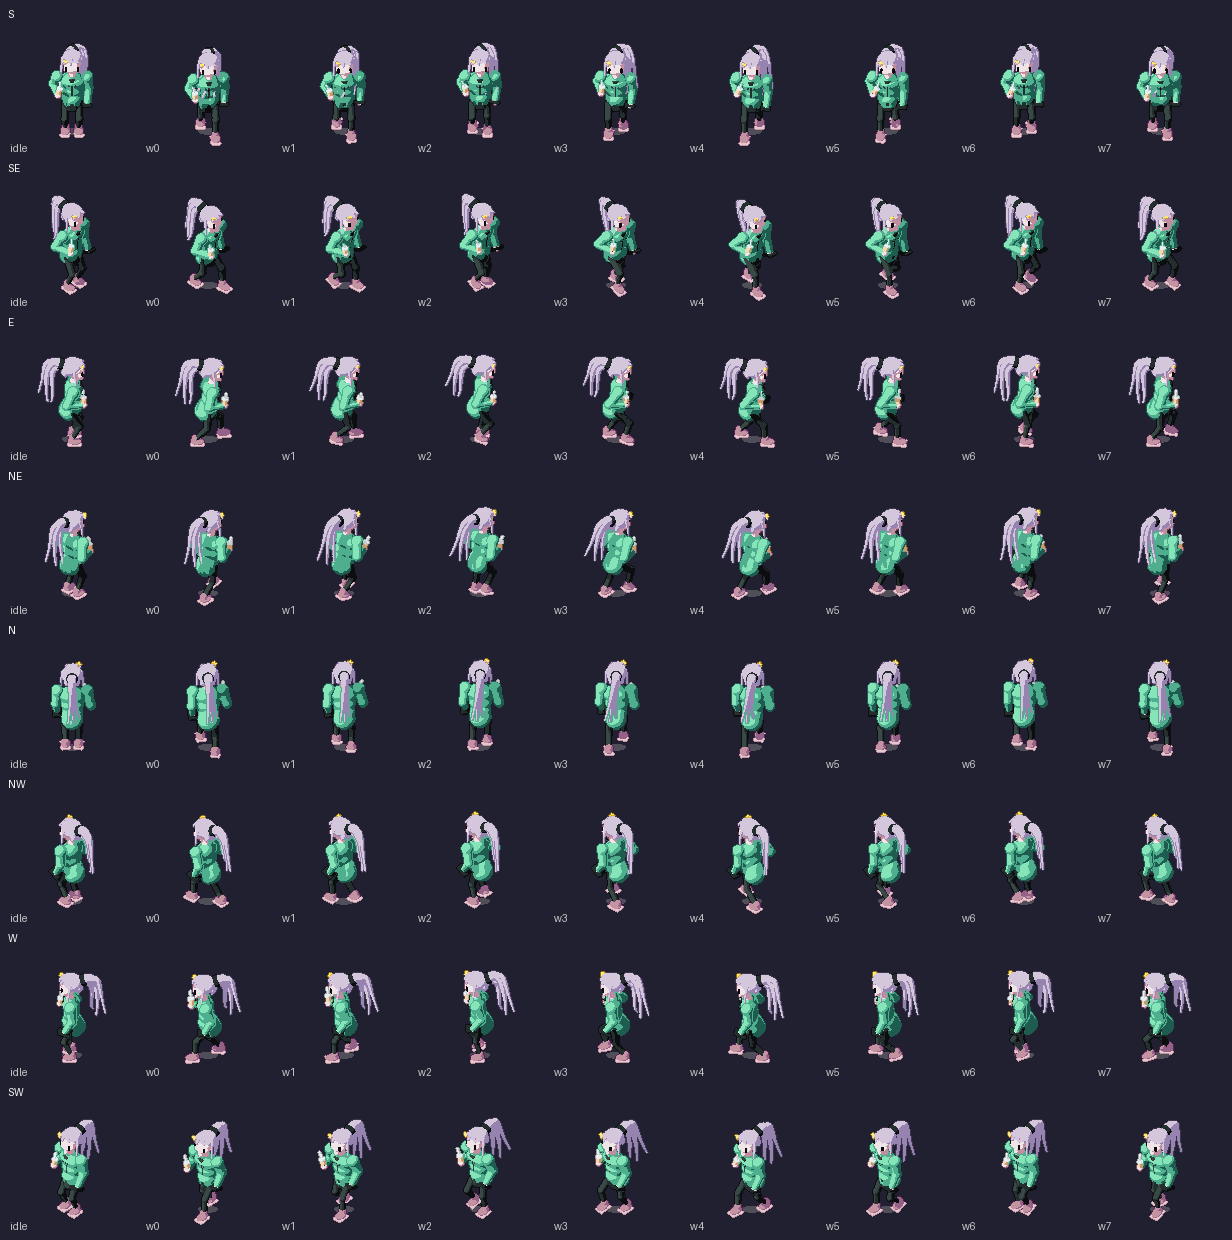
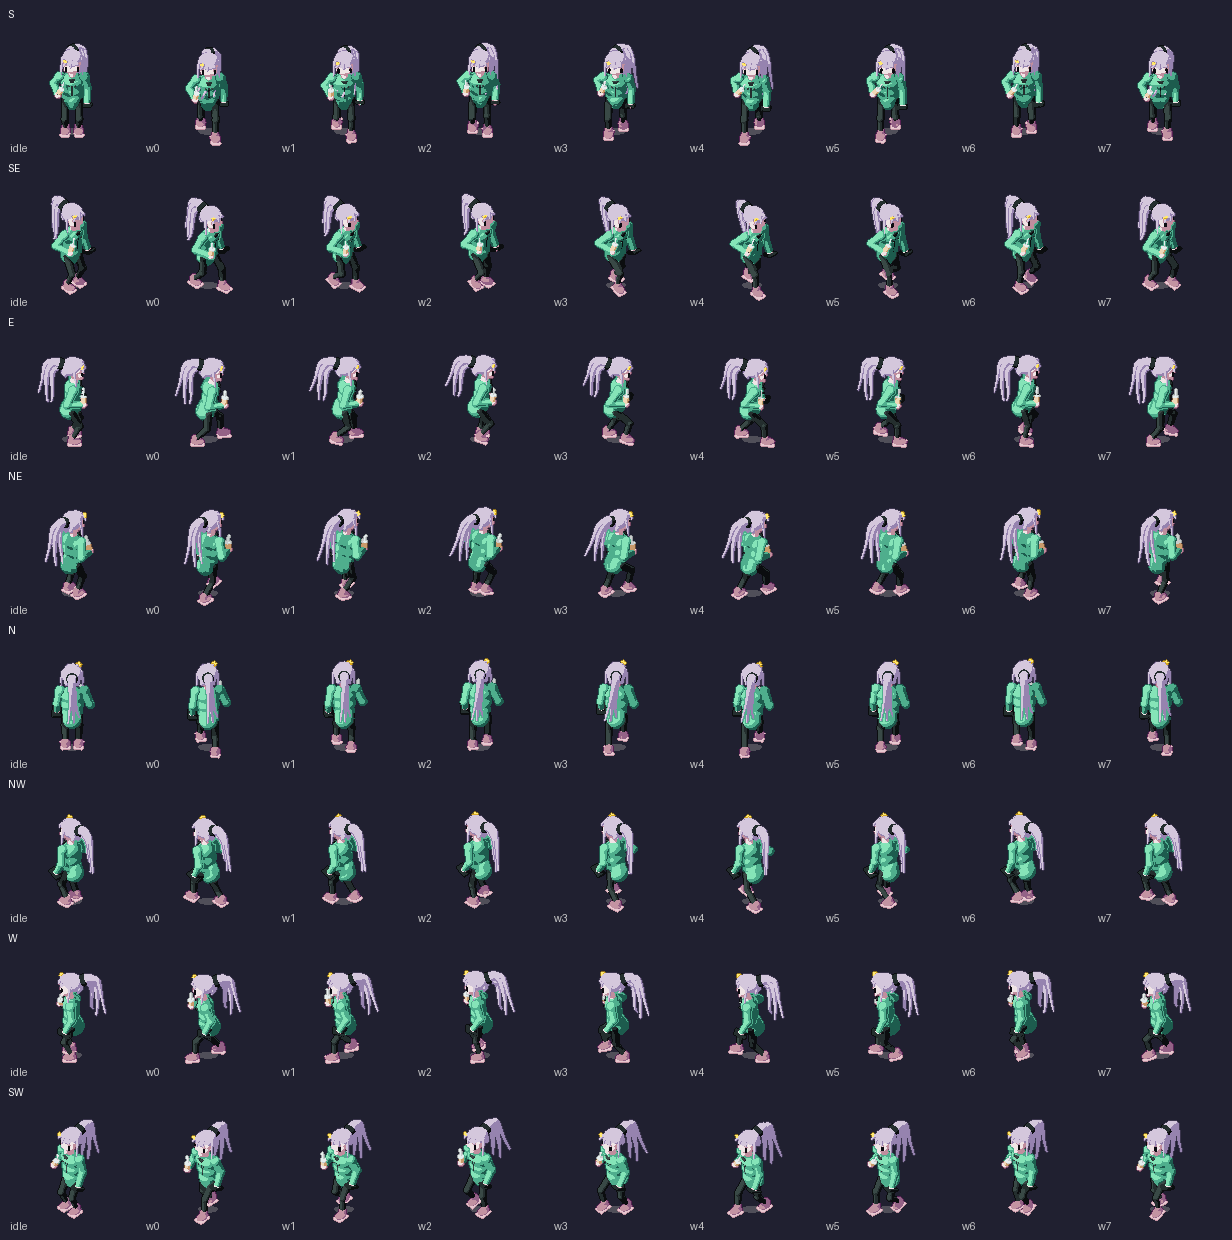
hero-002 スプライト修正：肩を細く・お尻をすっきり・前髪を追加（候補のまま）
にゅーいち指摘の3点をスプライトだけ修正（説明書画像・スプラッシュは変更なし）。
- 肩：shoulder_L x 0.27→0.22、肩の球 r 0.10→0.08、袖を細く、胴体上部楕円 x 0.24→0.21
- お尻：ショートパンツを丸い円柱 r 0.155 から前後につぶした楕円に、ジャケット裾も細く
- 前髪：fringe 0.5→0.95＋前髪の塊パーツ fringe_bang を追加
修正後 IoU 0.726、QA ok、27色、歩行ゲート不良セル0（足シートを先に目視）。

diff --git a/docs/CHARACTER_GRAPHICS.md b/docs/CHARACTER_GRAPHICS.md
@@ -119,13 +119,18 @@ android/assets/
   右手にタピオカドリンクのカップ**。
 - 首にワイヤレスイヤホン。世界観は同じ：近未来の日本のショッピングモール、
   ドーパミンを求める現代のドパガキ。画風はゲーム全体のレトロピクセルアート調で統一する。
+- 修正（2026-11-27、にゅーいち指摘の3点。説明書画像・スプラッシュは変更せず、
+  スプライトだけ修正）：(1)肩がいかつい→肩幅を狭く・袖を細くして柔らかくした。
+  (2)お尻がオムツみたい→ショートパンツを前後につぶした楕円にし、ジャケット裾も
+  細くした。(3)前髪がない→fringe 0.5→0.95＋前髪の塊パーツを追加し、正面系で
+  前髪が見えるようにした。修正後 IoU 0.726、27色、歩行ゲート不良セル0。
 
 ## 現状の主人公パターン（2026-11-27）
 
 | 番号 | デザイン | 画風 | IoU | 色数 | 状態 |
 | --- | --- | --- | --- | --- | --- |
 | hero-001 | 最初のデザイン（オレンジパーカー・スマホ・缶） | レトロピクセルアート調 v1 | 0.785 | 21 | **採用** |
-| hero-002 | 女の子（ミントのジャケット・ポニーテール・ゲーム機・タピオカ） | レトロピクセルアート調 v1 | 0.748 | 27 | **候補** |
+| hero-002 | 女の子（ミントのジャケット・ポニーテール・ゲーム機・タピオカ） | レトロピクセルアート調 v1 | 0.726 | 27 | **候補** |
 
 hero-001 は、にゅーいちが4バリアントを見比べて「視認した感じ一番いい」と
 選んだもの。色が一番フラットで硬い（ランプを3段に短縮）。

diff --git a/docs/ASSET_PIPELINE.md b/docs/ASSET_PIPELINE.md
@@ -410,6 +410,17 @@ is_magenta_pixel と同じ条件）にし、リサイズ後にも純マゼンタ
   ref compare IoU 0.748、QA ok（エラー0・警告0）、27色、歩行地速 65.5 px/s。
   歩行ゲート通過（不良セル0、自分の目で足シートを先に確認）。
   作業ディレクトリは `spritekiln-v2-hero002/`。
+- 修正（2026-11-27、にゅーいち指摘の3点。説明書画像・スプラッシュは変更せず、
+  スプライトだけ修正）：(1)肩がいかつい→`shoulder_L` x 0.27→0.22、肩の球
+  r 0.10→0.08、袖を細く、胴体上部楕円 x 0.24→0.21。(2)お尻がオムツみたい→
+  ショートパンツを丸い円柱 r 0.155 から前後につぶした楕円（r [0.14,0.09,0.095]）
+  にし、ジャケット裾 [0.18,0.19]→[0.165,0.17]。(3)前髪がない→hair キットの
+  fringe 0.5→0.95（0.5では前髪が頭頂部に撫でつけられて額がむき出しになる。
+  キットのコメント通り）＋前髪の塊パーツ `fringe_bang`（髪素材の平たい楕円）を
+  追加。修正後 IoU 0.726（肩を狭くした分。目標 0.65 以上は維持）、QA ok、
+  27色、歩行地速 65.5 px/s、歩行ゲートは不良セル0（足シートを先に目視）。
+  修正前後のコンタクトシート比較は `spritekiln-v2-hero002/` に保存
+  （`hero002_contact_before_fix.png` と `hero002_contact.png`）。
 - 描画は164秒（単独実行。4バリアント並行時は993〜1481秒かかった）。
 - ゲームには組み込んでいない（候補）。にゅーいちが選ぶまでは hero-001 のまま。
 
